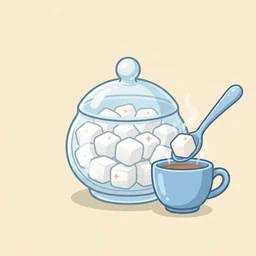
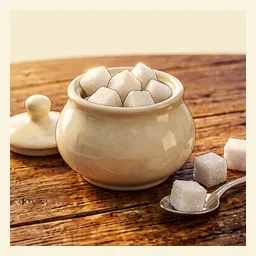
0.116.0: волна B — ещё девять слов 2 класса в стиле storybook

diff --git a/docs/RELEASE-0.116.0.md b/docs/RELEASE-0.116.0.md
@@ -1,0 +1,53 @@
+# 0.116.0 — волна B: ещё девять слов 2 класса в стиле storybook
+
+Продолжение арт-волны после 0.115.1. Девять слов второго класса получили
+новые картинки 256×256 в тёплом 3D-storybook: сорока, собака, обезьяна,
+капуста, молоко, морковь, обед, сахар, земляника.
+
+## Что стало
+
+| Слово | Сцена |
+|---|---|
+| сорока | чёрно-белая птица на мшистой ветке, рядом гнездо и блестящая ложка |
+| собака | золотистый щенок сидит, красный ошейник с жетоном |
+| обезьяна | маленькая обезьяна на ветке с бананом |
+| капуста | кочан на влажной земле, капли росы |
+| молоко | бутылка и стакан молока на деревянном столе |
+| морковь | две моркови с ботвой на грядке |
+| обед | миска горячего супа с паром, хлеб, ложка и салфетка |
+| сахар | сахарница с кубиками и чайная ложка |
+| земляника | лесные ягоды, листья и белый цветок на мху |
+
+Все кадры: 256×256 WebP, q82, без текста и логотипов, фон и свет совпадают
+с паком 0.115.0. Вес — **75 КБ на девять картинок** (старые файлы весили
+29 КБ). Пак `public/words` — **1 404 КБ**; precache — **593 файла /
+24 596.78 KiB** (+46.75 KiB к 0.115.1).
+
+## Чего нет в этой партии
+
+«Фамилия» осталась в прежнем плоском стиле: групповой семейный портрет
+требует квадратного кадра, а генератор в этой партии отдал широкий. Слово
+не потерялось — картинка на месте, просто старая. Новый квадратный кадр
+пойдёт следующей партией вместе с едой и садом.
+
+## Покрытие
+
+Картинки есть у всех 367 слов 1–4 классов и у 17 слов 5 класса; всего
+**257 из 367 (70 %)**. В новом стиле — **29 слов** (20 из 0.115.0 и 9 здесь):
+«Школа» 8/8, «В школе» 4/5, «Птицы» 5/5, «Звери» 6/6, «Еда» 5/5, «Сад и
+ягоды» 1/6. «В школе» и «Сад и ягоды» закроются, когда в стиль войдут
+«фамилия», «малина», «щавель», «яблоко», «яблоня» и «ягода».
+
+## Проверки
+
+* `npm run content:check` — 367 слов, 257 картинок;
+* `npm run images:report` — пак 260 файлов / 1 404 КБ;
+* `npm run build` — precache без ошибок, рост в пределах бюджета;
+* `npm run test:smoke`, `test:content`, `test:adaptive`, `test:contrast`,
+  `test:guard` — зелёные.
+
+## Дальше
+
+Остальные 65 слов 2 класса: «фамилия», «малина», «щавель», «яблоко»,
+«яблоня», «ягода», «город», «улица», «одежда», «посуда» и другие. По 9–10 картинок
+за заход. После 2 класса — предметные слова 5 класса.

diff --git a/docs/HANDOFF.md b/docs/HANDOFF.md
@@ -1,13 +1,15 @@
 # HANDOFF — СЛОВО 2.0
 
-**Обновлено:** 2026-11-14. **В этой ветке — 0.115.1**: урок стал
+**Обновлено:** 2026-11-14. **В этой ветке — 0.116.0**: ещё девять слов
+2 класса в стиле storybook — сорока, собака, обезьяна, капуста, молоко,
+морковь, обед, сахар, земляника; всего 29 слов в новом стиле. Урок стал
 последовательным — после карточки знакомства сразу идёт задание на то же
 слово, остальные задания перемешаны, повторение в конце. В «Собери» и
 «Исправь» картинка-подсказка стала крупной и идёт без паспарту; пустой
 лоток букв после сборки больше не показывается. «Тропа слов» идёт по
 всей программе 1–5 классов (71 остановка, 284 слова), 5 класс — текстовым
 режимом, лабиринт и истории на месте. Сцена получила **пять нарисованных
-биомов** (двор, лес, дом, зима, город); **20 слов** и первые остановки в новом
+биомов** (двор, лес, дом, зима, город); **29 слов** и первые остановки в новом
 стиле уже в этой ветке. Картинки-подсказки в уроке идут без паспарту, верный
 вердикт — без лишних пояснений. Арт-план «Pixar-storybook» — в
 [`proposals/art-plan-pixar.md`](./proposals/art-plan-pixar.md).
